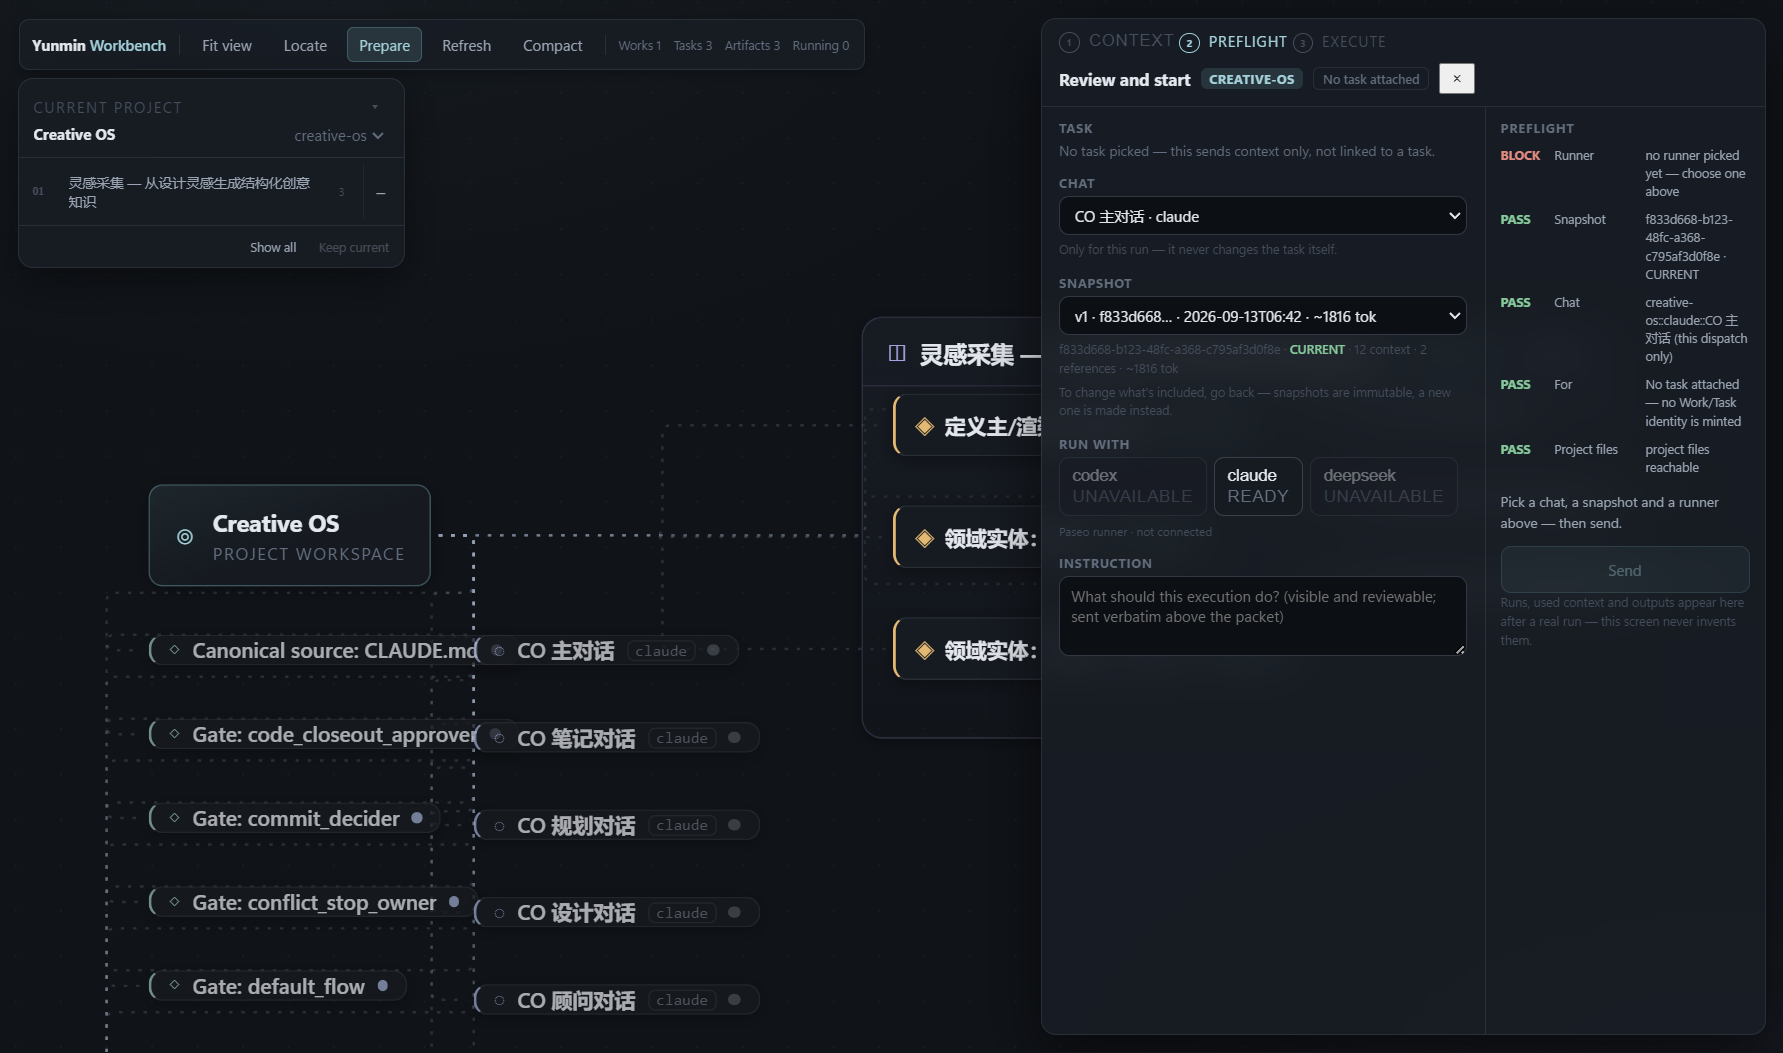
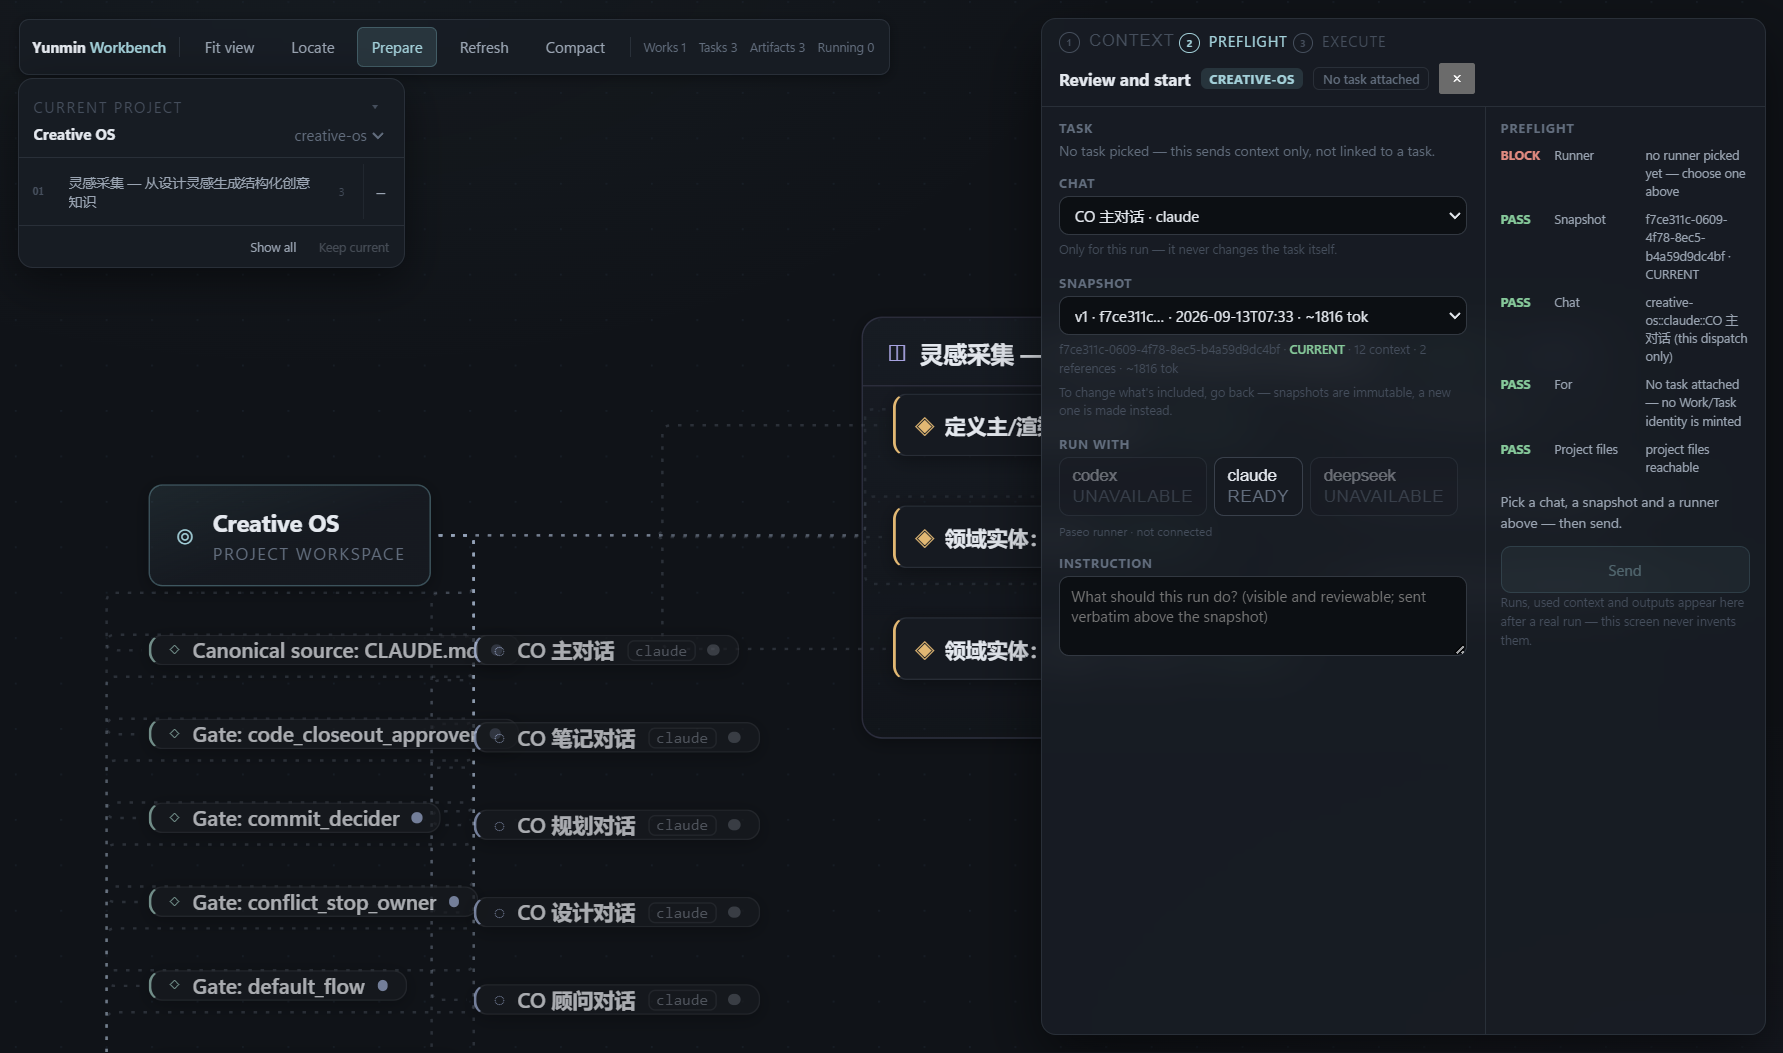
feat: whole-product interaction and visual quality pass

diff --git a/src/renderer-vnext/src/styles/index.css b/src/renderer-vnext/src/styles/index.css
@@ -4,6 +4,10 @@
    Canvas is the absolute主体; chrome is a floating glass toolbar.
    ============================================================ */
 
+:root {
+  color-scheme: dark;
+}
+
 html,
 body,
 #root {
@@ -15,6 +19,18 @@ body,
   color: var(--wb-text);
   font-family: 'Segoe UI Variable Text', 'Segoe UI', system-ui, -apple-system, sans-serif;
   font-size: var(--wb-fs-md);
+}
+
+/* Visible keyboard focus everywhere: native controls are all reachable by
+   Tab, so the focus ring must never be invisible. */
+:focus-visible {
+  outline: 1.5px solid var(--wb-accent);
+  outline-offset: 2px;
+}
+.react-flow__node:focus-visible { outline: none; }
+.react-flow__node:focus-visible .wb-node {
+  border-color: var(--wb-accent);
+  box-shadow: 0 0 0 1.5px rgba(127, 181, 192, 0.45), var(--wb-shadow-2);
 }
 
 .vnext-app {
@@ -94,7 +110,9 @@ body,
 .wb-canvas-toolbar {
   display: flex;
   align-items: center;
+  flex-wrap: wrap;
   gap: 6px;
+  max-width: calc(100vw - 28px);
   padding: 6px 10px;
   border-radius: var(--wb-radius);
   box-shadow: var(--wb-shadow-1);
@@ -124,7 +142,8 @@ body,
   border-radius: var(--wb-radius-sm);
   background: transparent;
   color: var(--wb-text-secondary);
-  padding: 5px 9px;
+  padding: 7px 11px;
+  min-height: 28px;
   font: 600 var(--wb-fs-sm)/1.2 inherit;
   font-family: inherit;
   cursor: pointer;
@@ -198,7 +217,13 @@ body,
 .region-nav-project strong { overflow: hidden; text-overflow: ellipsis; white-space: nowrap; }
 .region-nav-project select { max-width: 132px; border: 0; background: transparent; color: var(--wb-text-muted); font: 500 var(--wb-fs-xs)/1.2 inherit; text-align: right; }
 .region-nav-project select:disabled { opacity: 1; }
-.region-nav-list { display: grid; padding: 5px; gap: 3px; }
+.region-nav-list {
+  display: grid;
+  padding: 5px;
+  gap: 3px;
+  max-height: min(46vh, 420px);
+  overflow-y: auto;
+}
 .region-nav-empty { margin: 0; padding: 8px 7px; color: var(--wb-text-faint); font-size: var(--wb-fs-xs); line-height: 1.4; }
 .region-nav-row { display: grid; grid-template-columns: minmax(0, 1fr) 28px; border-radius: var(--wb-radius); }
 .region-nav-row.is-active { background: var(--wb-accent-dim); box-shadow: inset 2px 0 var(--wb-accent); }
@@ -311,7 +336,13 @@ body,
   border-color: rgba(127, 181, 192, 0.45);
 }
 
-/* Clickable affordance: every canvas node invites interaction on hover. */
+/* Region containers are layout, not actions: no pointer promise. */
+.react-flow__node-wb-region,
+.react-flow__node-wb-region .wb-region {
+  cursor: default;
+}
+
+/* Clickable affordance: interactive canvas nodes invite touch on hover. */
 .react-flow__node:not(.react-flow__node-wb-region):hover .wb-node {
   border-color: var(--wb-accent);
   box-shadow: 0 0 0 1px rgba(127, 181, 192, 0.35), var(--wb-shadow-1);
@@ -910,7 +941,8 @@ body,
   background: transparent;
   color: var(--wb-text-faint);
   font: 600 9px/1.2 inherit;
-  padding: 4px 6px;
+  padding: 7px 8px;
+  min-height: 26px;
   cursor: pointer;
   text-transform: uppercase;
   letter-spacing: 0.03em;
@@ -986,12 +1018,25 @@ body,
   padding: 10px 14px 14px;
 }
 .cabinet-detail h3 {
-  margin: 2px 0 10px;
+  margin: 2px 26px 10px 0;
   font-size: var(--wb-fs-md);
   font-weight: 650;
   color: var(--wb-text);
   overflow-wrap: anywhere;
 }
+.cabinet-detail-close {
+  position: absolute;
+  top: 8px;
+  right: 8px;
+  border: 0;
+  background: transparent;
+  color: var(--wb-text-muted);
+  font-size: 14px;
+  cursor: pointer;
+  padding: 2px 7px;
+  border-radius: var(--wb-radius-sm);
+}
+.cabinet-detail-close:hover { color: var(--wb-text); background: var(--wb-slate-dim); }
 .cabinet-detail dl {
   display: grid;
   grid-template-columns: 88px minmax(0, 1fr);
@@ -1034,6 +1079,16 @@ body,
   padding: 10px 14px;
   border-top: 1px solid var(--wb-border);
   background: rgba(15, 18, 23, .72);
+}
+@media (max-width: 1100px) {
+  .wb-canvas-toolbar .wb-tally { display: none; }
+  .wb-region-nav { width: 270px; }
+  .preparation-footer {
+    grid-template-columns: minmax(0, 1fr) auto;
+  }
+  .preparation-meaning { grid-column: 1 / -1; }
+  .dispatch-surface .dispatch-body { grid-template-columns: minmax(0, 1fr); }
+  .dispatch-surface .dispatch-preflight { border-left: 0; border-top: 1px solid var(--wb-border); }
 }
 .preparation-meaning { display: flex; flex-direction: column; gap: 2px; }
 .preparation-meaning strong { color: var(--wb-teal); font-size: var(--wb-fs-md); }
@@ -1294,7 +1349,11 @@ body,
 .react-flow__edge-textbg { fill: rgba(16, 19, 24, 0.92); }
 .react-flow__edge-text { fill: var(--wb-text-secondary); font-size: 9px; }
 
-/* scrollbars — quiet */
+/* scrollbars — quiet, and themed for Firefox too */
+* {
+  scrollbar-width: thin;
+  scrollbar-color: rgba(148, 163, 184, 0.28) transparent;
+}
 ::-webkit-scrollbar { width: 9px; height: 9px; }
 ::-webkit-scrollbar-thumb {
   background: rgba(148, 163, 184, 0.2);

diff --git a/src/renderer-vnext/src/components/canvas/WorkGraphCanvas.tsx b/src/renderer-vnext/src/components/canvas/WorkGraphCanvas.tsx
@@ -182,7 +182,9 @@ export function WorkGraphCanvas({ revision, projectIds, onSelectProject, onRefre
   const [preparationStage, setPreparationStage] = useState<'context' | 'preflight' | null>(null);
   const [preparedPacket, setPreparedPacket] = useState<{ conversationKey: string; packetId: string } | null>(null);
   const [collapsedRegions, setCollapsedRegions] = useState<Set<string>>(new Set());
-  const [navCollapsed, setNavCollapsed] = useState(false);
+  // Narrow windows start with the work list folded so the floating nav never
+  // buries the project anchor; the project switcher itself stays visible.
+  const [navCollapsed, setNavCollapsed] = useState(() => window.innerWidth < 1100);
   const [startDismissed, setStartDismissed] = useState(false);
   const fittedScopeRef = useRef<string | null>(null);
 
@@ -253,6 +255,29 @@ export function WorkGraphCanvas({ revision, projectIds, onSelectProject, onRefre
     }, 60);
     return () => window.clearTimeout(frame);
   }, [initial, instance, navigateRequest, scopeProjectId]);
+
+  // Window resizes leave a fitted viewport behind (content drifts off-screen
+  // at narrow widths). While the user is just browsing — no selection, no
+  // preparation open — reframe the Work regions. An active focus is never
+  // yanked.
+  useEffect(() => {
+    if (!instance) return;
+    let timer: number | undefined;
+    const onResize = () => {
+      window.clearTimeout(timer);
+      timer = window.setTimeout(() => {
+        if (selectedId !== null || preparationStage !== null) return;
+        const wanted = new Set(workRegionFitIds(initial.nodes));
+        const framed = initial.nodes.filter((node) => wanted.has(node.id));
+        if (framed.length > 0) void instance.fitView({ nodes: framed, padding: 0.2, duration: 240 });
+      }, 250);
+    };
+    window.addEventListener('resize', onResize);
+    return () => {
+      window.removeEventListener('resize', onResize);
+      window.clearTimeout(timer);
+    };
+  }, [initial, instance, preparationStage, selectedId]);
 
   // Explicit region-visibility gestures refit to what stays visible, so
   // Keep current always lands on the current Work instead of empty canvas.
@@ -370,6 +395,24 @@ export function WorkGraphCanvas({ revision, projectIds, onSelectProject, onRefre
     setPreparationStage('context');
   }, []);
 
+  // ESC walks one layer back: preparation surface, then selection. Typing in
+  // a field is never hijacked.
+  useEffect(() => {
+    const onKeyDown = (event: KeyboardEvent) => {
+      if (event.key !== 'Escape') return;
+      const target = event.target as HTMLElement | null;
+      if (target && (target.tagName === 'INPUT' || target.tagName === 'TEXTAREA'
+        || target.tagName === 'SELECT' || target.isContentEditable)) return;
+      if (preparationStage !== null) {
+        setPreparationStage(null);
+        return;
+      }
+      if (selectedId !== null) setSelectedId(null);
+    };
+    window.addEventListener('keydown', onKeyDown);
+    return () => window.removeEventListener('keydown', onKeyDown);
+  }, [preparationStage, selectedId]);
+
   const dimmed = selectedNode !== null;
 
   return (
@@ -408,7 +451,7 @@ export function WorkGraphCanvas({ revision, projectIds, onSelectProject, onRefre
               className="wb-tool"
               aria-pressed={preparationStage !== null}
               onClick={openPreparation}
-              title={selectedNode && (selectedNode.data.kind === 'task' || selectedNode.data.kind === 'work') ? `Prepare · ${selectedNode.data.label}` : 'Pick a task first, then prepare it'}
+              title={selectedNode && (selectedNode.data.kind === 'task' || selectedNode.data.kind === 'work') ? `Prepare · ${selectedNode.data.label}` : 'Choose context, snapshot it, and send it'}
             >
               Prepare
             </button>
@@ -527,7 +570,7 @@ export function WorkGraphCanvas({ revision, projectIds, onSelectProject, onRefre
         </nav>
       )}
 
-      {detail && (
+      {detail && preparationStage === null && (
         <FocusDetailPanel
           detail={detail}
           story={executionStory}

diff --git a/src/renderer-vnext/src/components/cabinet/ContextCabinet.tsx b/src/renderer-vnext/src/components/cabinet/ContextCabinet.tsx
@@ -651,7 +651,7 @@ export function ContextCabinet({ projectId, selection, onPrepared, onClose }: {
                         className={`cabinet-pin${item.pinned ? ' is-on' : ''}`}
                         disabled={item.state !== 'included'}
                         aria-label={item.pinned ? `Unpin ${item.title}` : `Pin ${item.title}`}
-                        title={item.state === 'included' ? 'Pin into packet head' : 'Pinning requires included'}
+                        title={item.state === 'included' ? 'Pin to the top of the snapshot' : 'Only selected items can be pinned'}
                         onClick={() => togglePin(item.id)}
                       >
                         {item.pinned ? '★' : '☆'}
@@ -666,6 +666,7 @@ export function ContextCabinet({ projectId, selection, onPrepared, onClose }: {
         </div>
         {selected && (
         <aside className="cabinet-detail" aria-label="Context detail">
+              <button type="button" className="cabinet-detail-close" aria-label="Close context detail" onClick={() => setSelectedId(null)}>×</button>
               <h3>{selected.title}</h3>
               <dl>
                 <dt>Identity</dt><dd>{selected.id}</dd>
@@ -749,7 +750,7 @@ export function ContextCabinet({ projectId, selection, onPrepared, onClose }: {
         </button>
       </footer>
       {(packet || packetError) && (
-        <footer className="cabinet-packet" role="status" aria-label="Compiled packet">
+        <footer className="cabinet-packet" role="status" aria-label="Compiled snapshot">
           {packetError && <p className="cabinet-error">{packetError}</p>}
           {packet && (
             <dl>

diff --git a/src/renderer-vnext/src/components/dispatch/DispatchSurface.tsx b/src/renderer-vnext/src/components/dispatch/DispatchSurface.tsx
@@ -14,7 +14,7 @@ import type { FrozenPacket, FrozenPacketSummary, HarnessCapabilities, OverlaySna
 
 /**
  * Explicit Dispatch Surface (PHASE 3D.1) —
- * "which Task, with which Frozen Packet, to which Conversation / executor".
+ * "which Task, with which snapshot, to which chat / runner".
  *
  * A temporary preparation surface, not a chat composer, scheduler, or
  * router. It only assembles an explicit dispatch; the Execution /
@@ -278,7 +278,7 @@ export function DispatchSurface({ projectId, selection, initialConversationKey, 
                 setReceipt(null);
               }}
             >
-              <option value="">— select a frozen packet —</option>
+              <option value="">— select a snapshot —</option>
               {frozenList.map((item) => (
                 <option key={item.packetId} value={item.packetId}>
                   v{item.version} · {item.packetId.slice(0, 8)}… · {item.frozenAt.slice(0, 16)} · ~{item.roughTokens} tok
@@ -328,7 +328,7 @@ export function DispatchSurface({ projectId, selection, initialConversationKey, 
               rows={3}
               value={draft.instruction}
               onChange={(event) => setDraft((current) => setDispatchInstruction(current, event.target.value))}
-              placeholder="What should this execution do? (visible and reviewable; sent verbatim above the packet)"
+              placeholder="What should this run do? (visible and reviewable; sent verbatim above the snapshot)"
             />
           </div>
         </div>

diff --git a/e2e/compact-real.spec.ts b/e2e/compact-real.spec.ts
@@ -76,11 +76,12 @@ test('headed real Compact edge surface mirrors canonical facts and hands off to 
     }).toPass({ timeout: 15_000 });
     const compactWindow = compact!;
 
-    // Canonical facts mirrored: project / Work / Task, honest UNKNOWN state.
+    // Canonical facts mirrored: project / Work / Task. Unproven state stays
+    // out of the chips entirely (same rule as the Full Workbench).
     await expect(compactWindow.locator('.compact-project')).toHaveText('creative-os');
     await expect(compactWindow.locator('.compact-work')).toContainText('灵感采集');
     await expect(compactWindow.locator('.compact-task')).toContainText('T006');
-    await expect(compactWindow.locator('.compact-task')).toContainText('unknown');
+    await expect(compactWindow.locator('.compact-task')).not.toContainText('unknown');
     // No real execution exists -> no Running module. No attention instance -> none.
     await expect(compactWindow.locator('.compact-running')).toHaveCount(0);
     await expect(compactWindow.locator('.compact-attention')).toHaveCount(0);

diff --git a/src/renderer-compact/CompactApp.tsx b/src/renderer-compact/CompactApp.tsx
@@ -88,7 +88,7 @@ export function CompactApp() {
         aria-level={1}
         aria-label="Workbench Compact"
       >
-        <span className="compact-title">Workbench</span>
+        <span className="compact-title">Yunmin Workbench</span>
         <span className="compact-drag-spacer" />
         <button
           type="button"
@@ -126,9 +126,11 @@ export function CompactApp() {
             {snapshot.task && (
               <span className="compact-task">
                 {snapshot.task.taskId} · {snapshot.task.label}
-                <em className={`compact-currentness is-${snapshot.task.taskState === 'unknown' ? 'unknown' : snapshot.task.taskState}`}>
-                  {snapshot.task.taskState}
-                </em>
+                {snapshot.task.taskState !== 'unknown' && (
+                  <em className={`compact-currentness is-${snapshot.task.taskState}`}>
+                    {snapshot.task.taskState}
+                  </em>
+                )}
               </span>
             )}
           </button>
